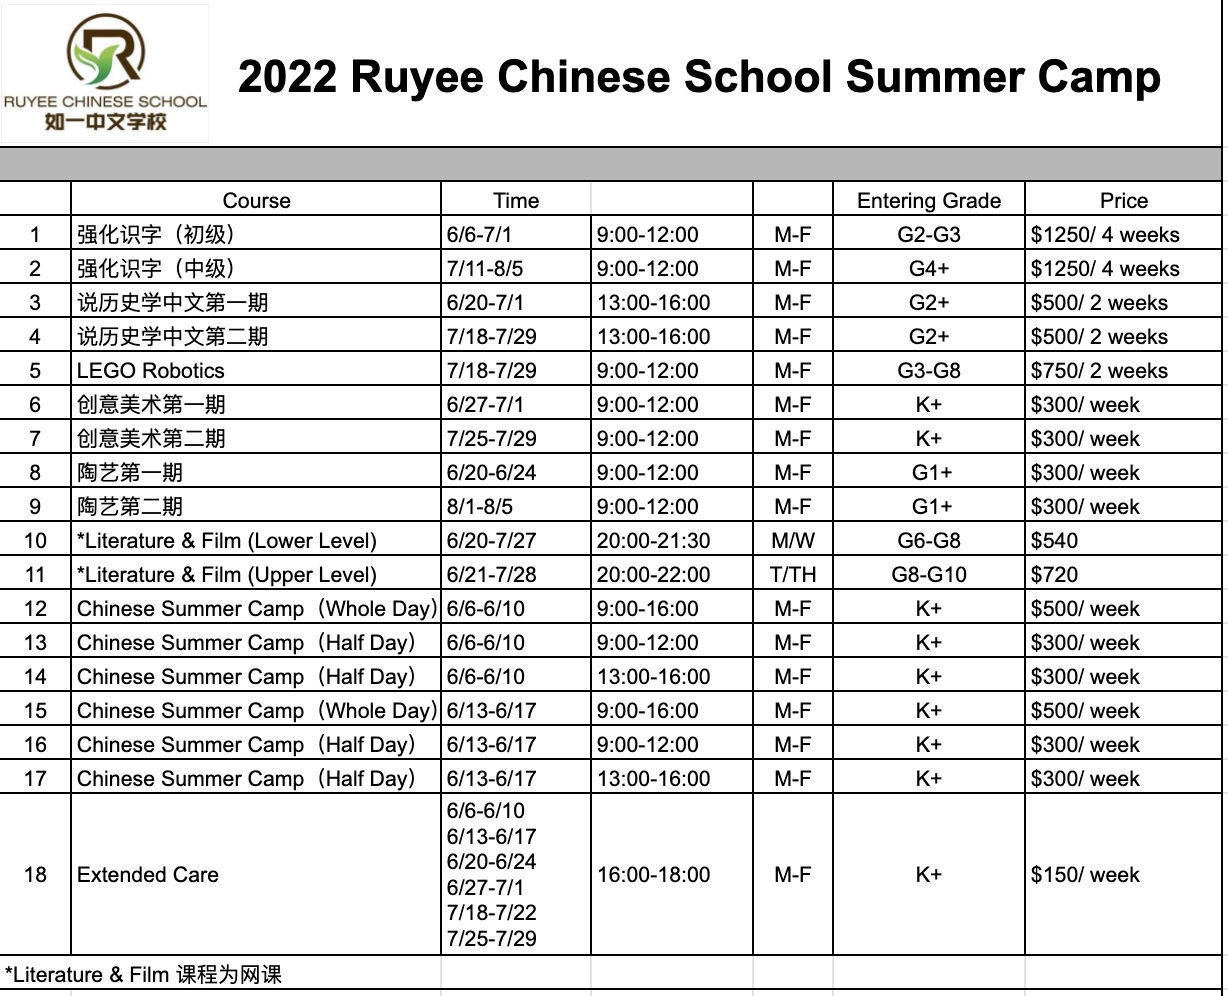
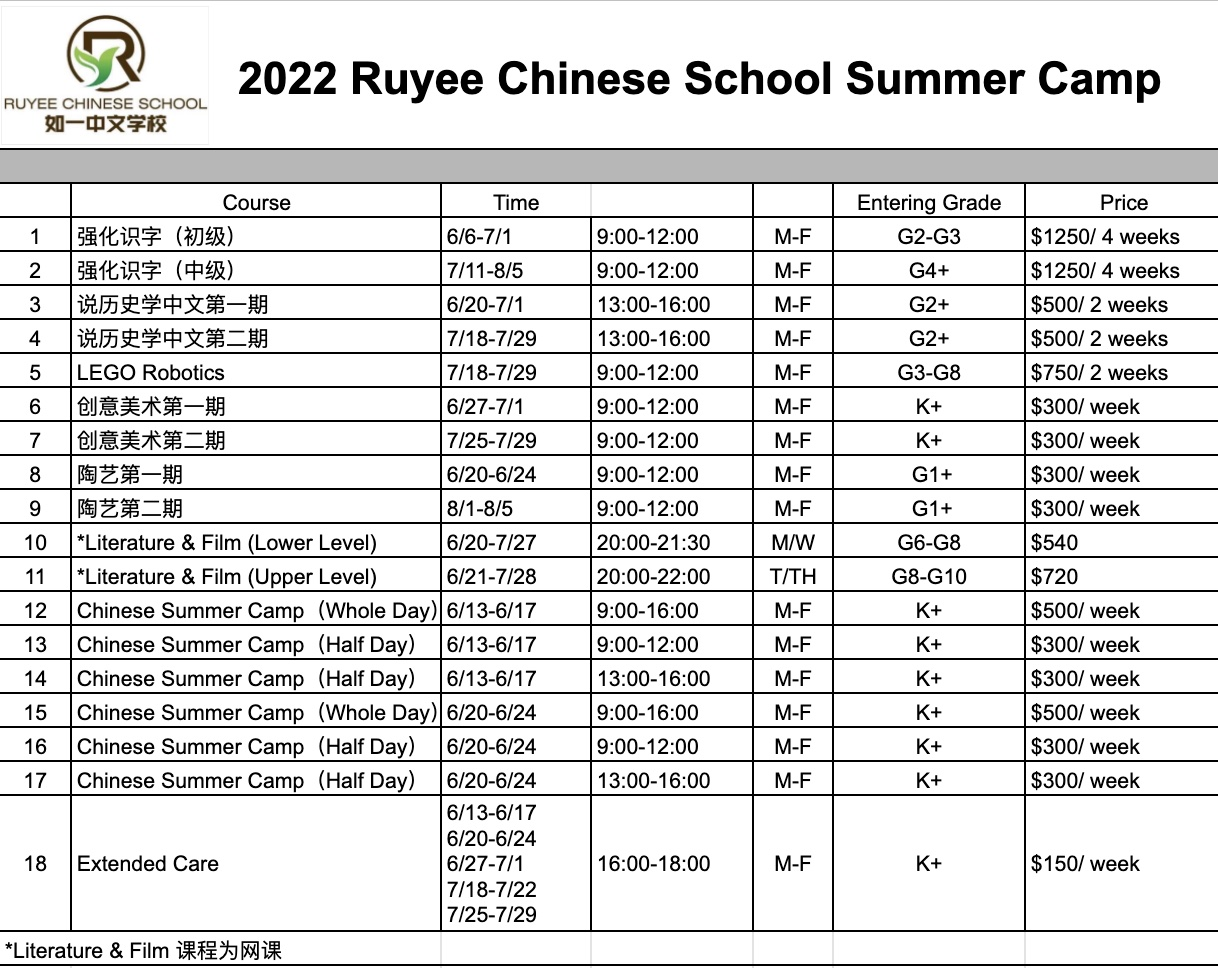
Update for 2022 Summer
Update for 2022 Summer schedule change

Changed region(s): [[0.0, 0.0, 1.0, 1.0], [0.0, 0.8678, 0.1872, 0.8988], [0.7488, 0.8678, 0.78, 0.8988]]

diff --git a/index.html b/index.html
@@ -213,13 +213,18 @@
 							<h3>🎙 🔥 2022 Summer Camp is comming！！！火热报名中 🎉🎉🎉</h3>
 						</div>
 						<div class="blog-content">
-							<p>本次夏令营我们为学生定制了丰富的课程，寓教于乐、应有尽有！</p>
 							<li>
 								<a href="schedule-summer-2022.html"></i>查询详情 check details<i class="icofont icofont-link"></i></a>
 							</li>
 							<li>
 								<a href="https://docs.google.com/forms/d/e/1FAIpQLSdpqJnd9ZmWNGQ2MTMhTqabsVeeEBLEDWIfMJszusMuh4FE6g/viewform?usp=sf_link" width="640" height="3512" frameborder="0" marginheight="0" marginwidth="0"></i>报名，请进入此页面 Registration Form<i class="icofont icofont-link"></i></a>
 							</li>
+							<li></li>
+							<div class="col-md-9 col-lg-9 col-sm-12 col-xs-12">
+								<div class="left-about-image">
+									<img src="img/2022SummerChineseCampIntro1.JPG" alt="">
+								</div>
+							</div>							
 						</div>
 						<!-- <div class="col-md-6 col-lg-6 col-sm-12 col-xs-12">
 							<div class="left-about-image">

diff --git a/schedule-summer-2022.html b/schedule-summer-2022.html
@@ -204,12 +204,17 @@
 				    <div class="col-md-12 col-lg-12 col-sm-12 col-xs-12">
 					    <div class="area-title text-center">
 						    <h3>-----------------------------------------------------------------------------------------------------------------------------</h3>
-						    <h3>#12 ~ #14, #18 Chinese Summer Camp 第一周 课程介绍</h3>
+						    <h3>#12 ~ #18 Chinese Summer Camp 课程介绍</h3>
+						    <div class="col-md-12 text-center">
+							    <img src="img/2022SummerChineseCampIntro2.JPG" alt="">
+						    </div>
+						    <h3>.</h3>
+                            <h3>第一周 课程表</h3>
 						    <div class="col-md-12 text-center">
 							    <img src="img/2022SummerChinese1.JPG" alt="">
 						    </div>
 						    <h3>.</h3>
-						    <h3>#15 ~ #18 Chinese Summer Camp 第二周 课程介绍</h3>
+						    <h3>第二周 课程表</h3>
 						    <div class="col-md-12 text-center">
 							    <img src="img/2022SummerChinese2.JPG" alt="">
 						    </div>
